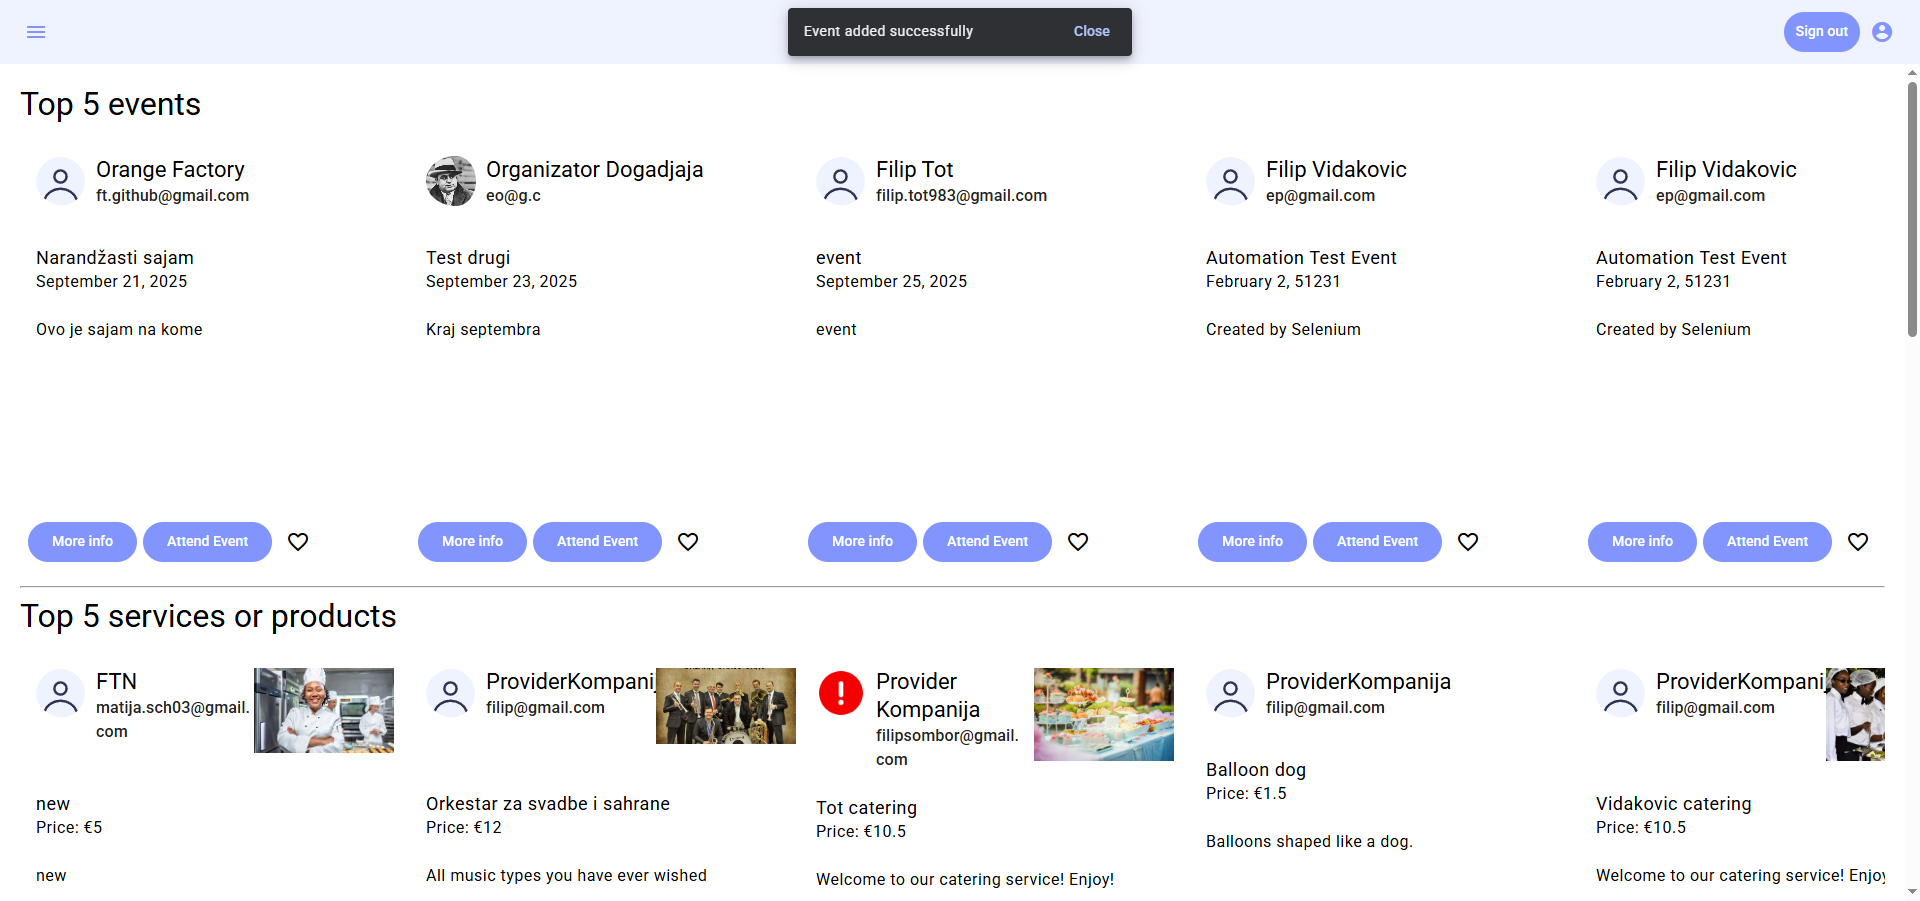
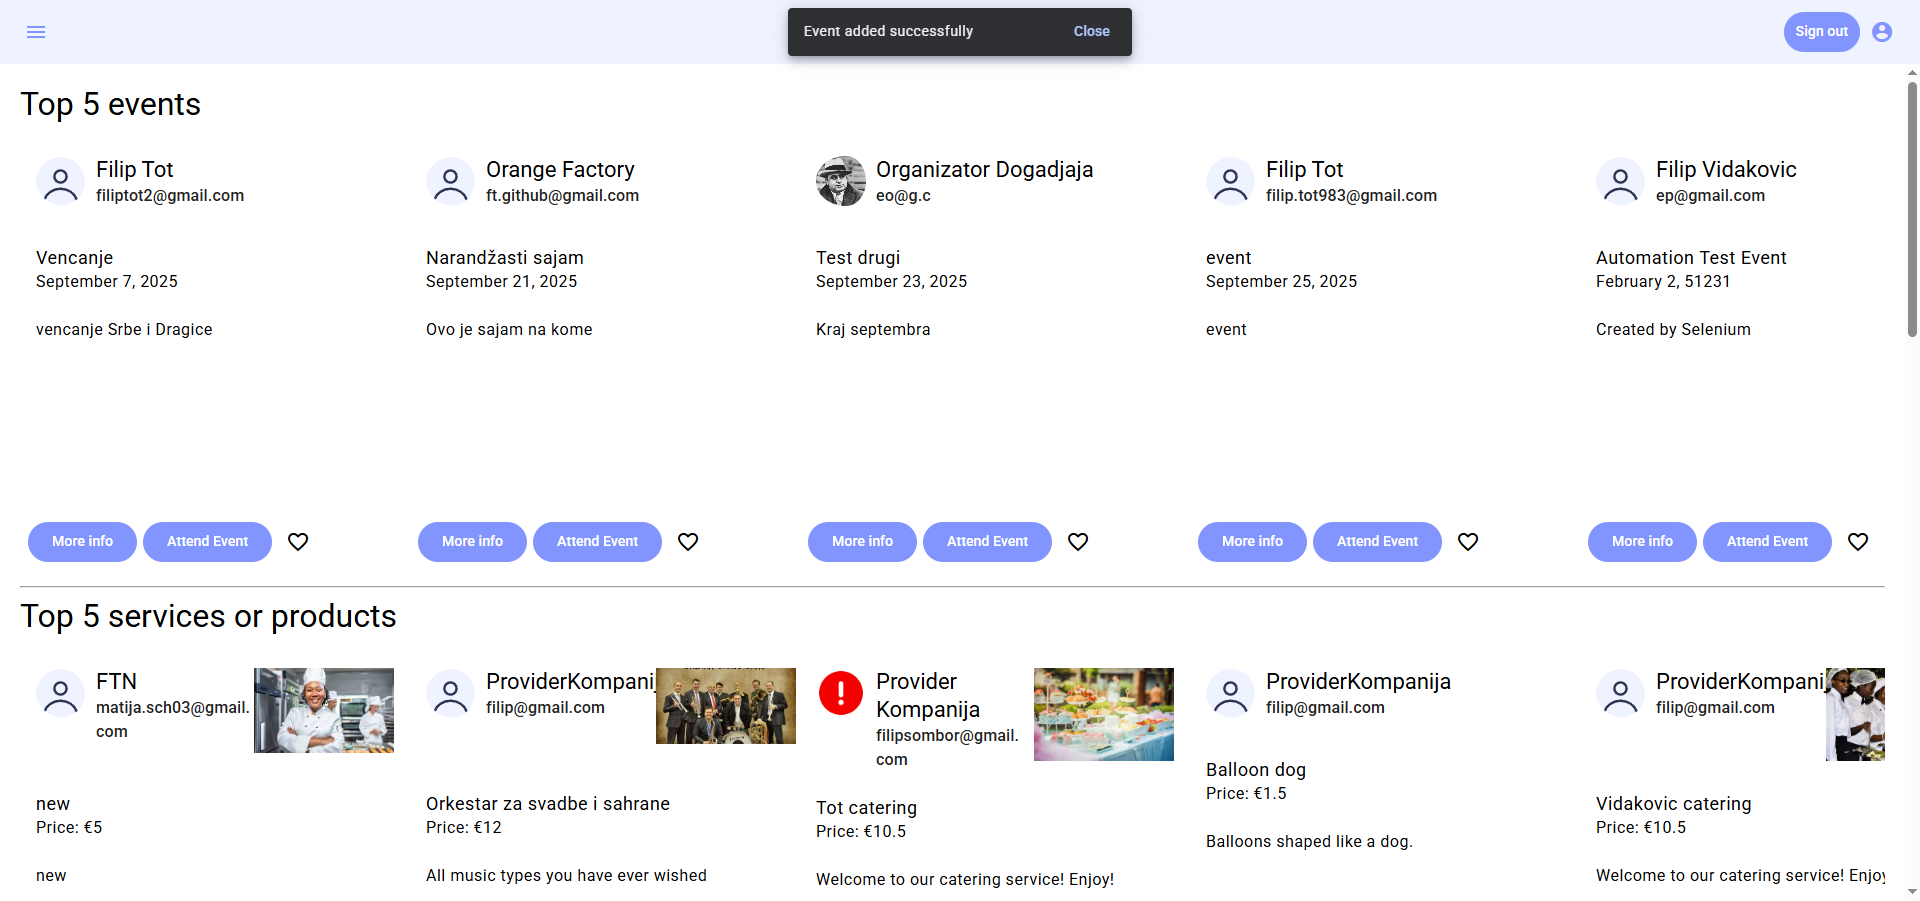
Fix bugs on tests

diff --git a/src/test/java/example/tests/EventsTest.java b/src/test/java/example/tests/EventsTest.java
@@ -226,13 +226,13 @@ public class EventsTest {
         driver.findElement(By.cssSelector("input[formcontrolname='startTime']")).sendKeys("11:00");
         driver.findElement(By.cssSelector("input[formcontrolname='endTime']")).sendKeys("12:00");
         driver.findElement(By.cssSelector("input[formcontrolname='location']")).sendKeys("Room 1");
-        Thread.sleep(1000);
 
         // save
         Thread.sleep(2000);
 
         WebElement saveBtn = driver.findElement(By.xpath("//button[normalize-space()='Save']"));
         assertFalse(saveBtn.isEnabled());
+        driver.findElement(By.xpath("//button[normalize-space()='Cancel']")).click();
 
         takeScreenshot("Test5_AddActivity_Fail_EmptyName.png");
     }
